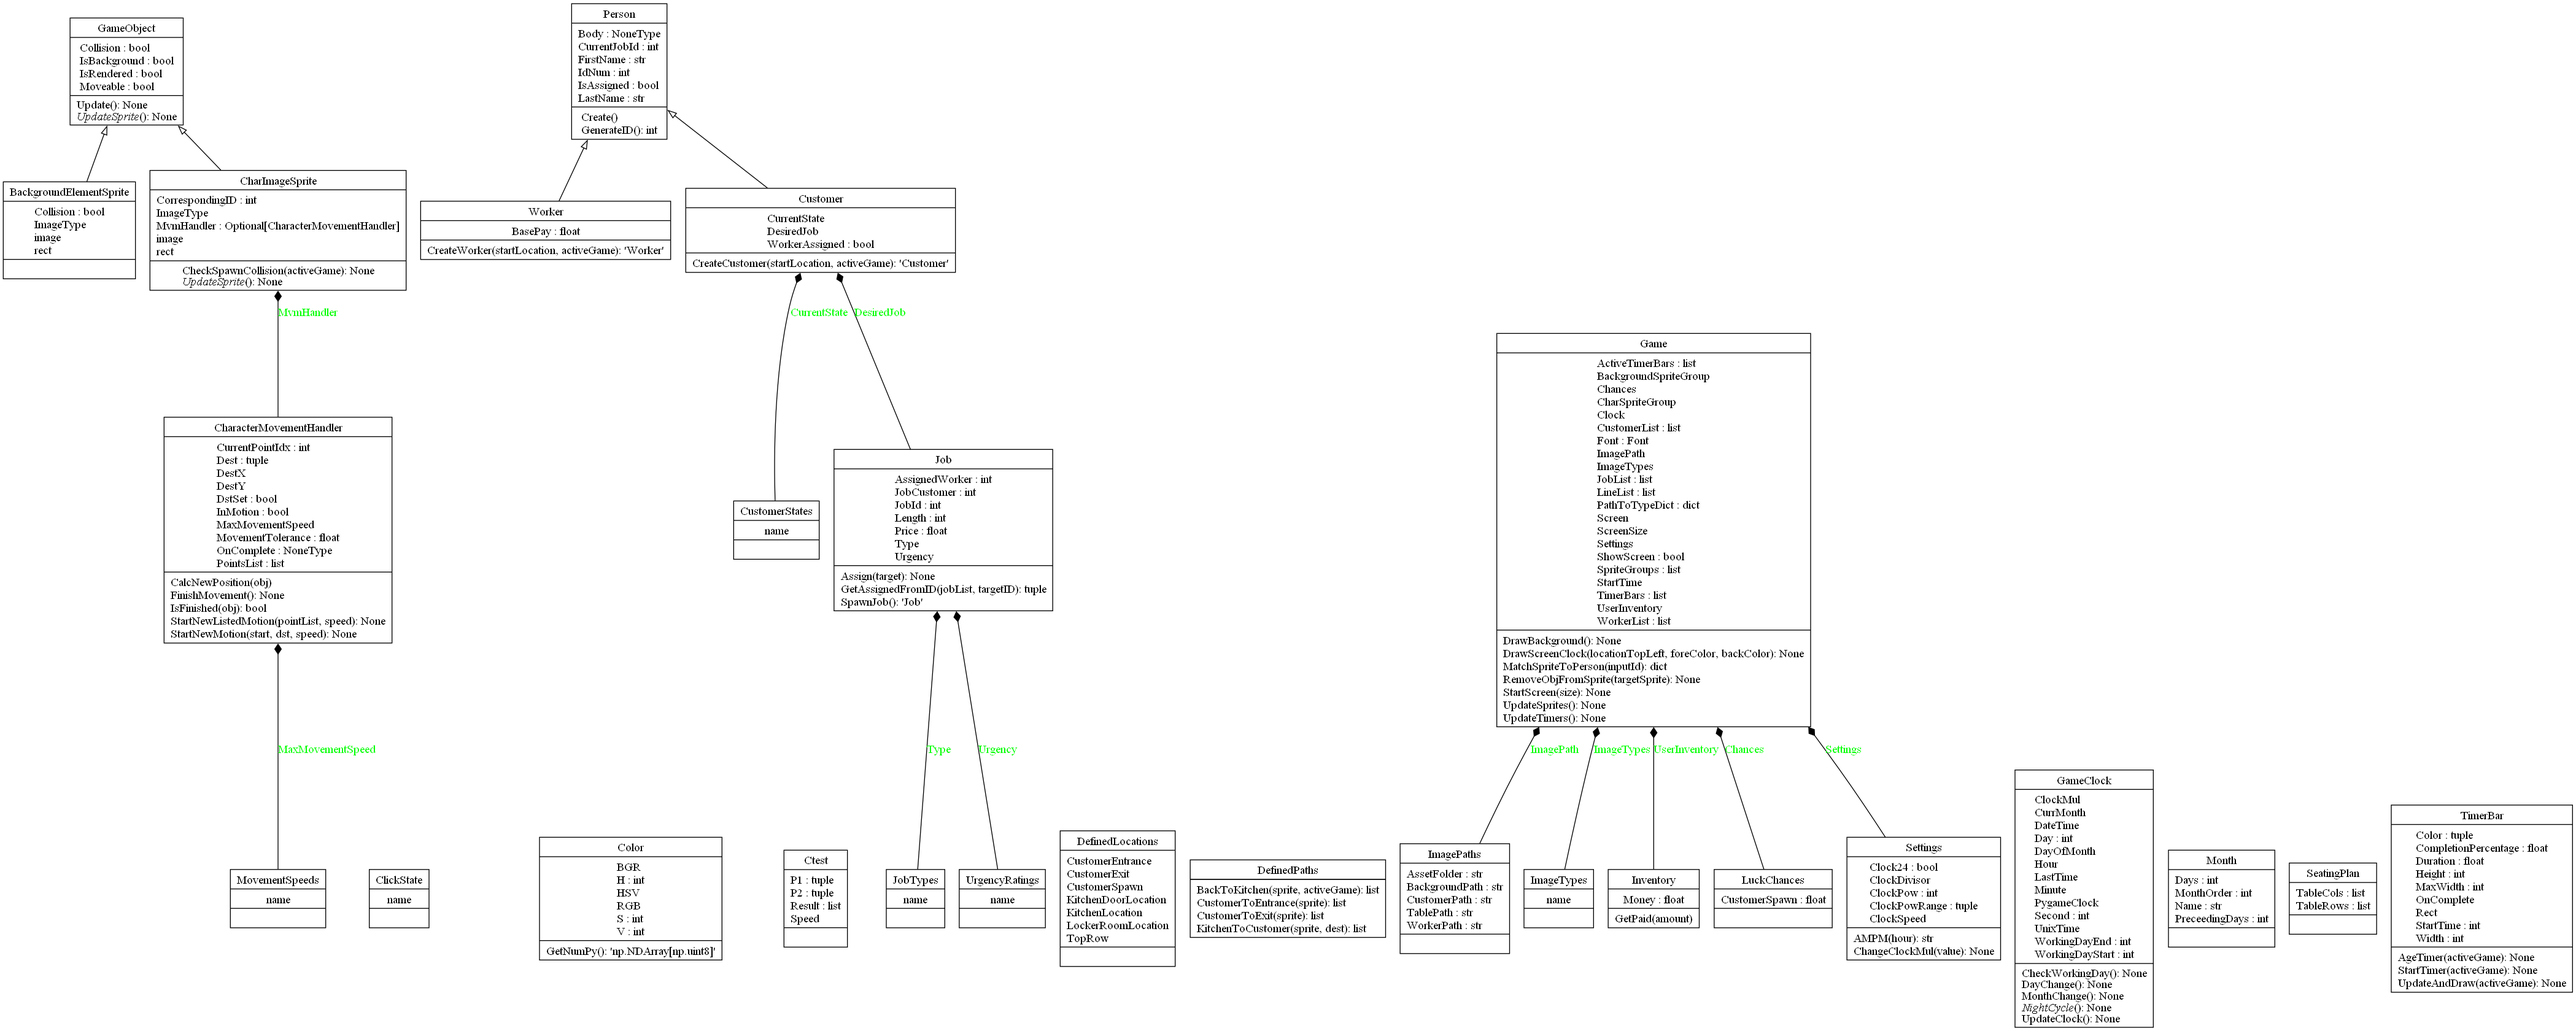
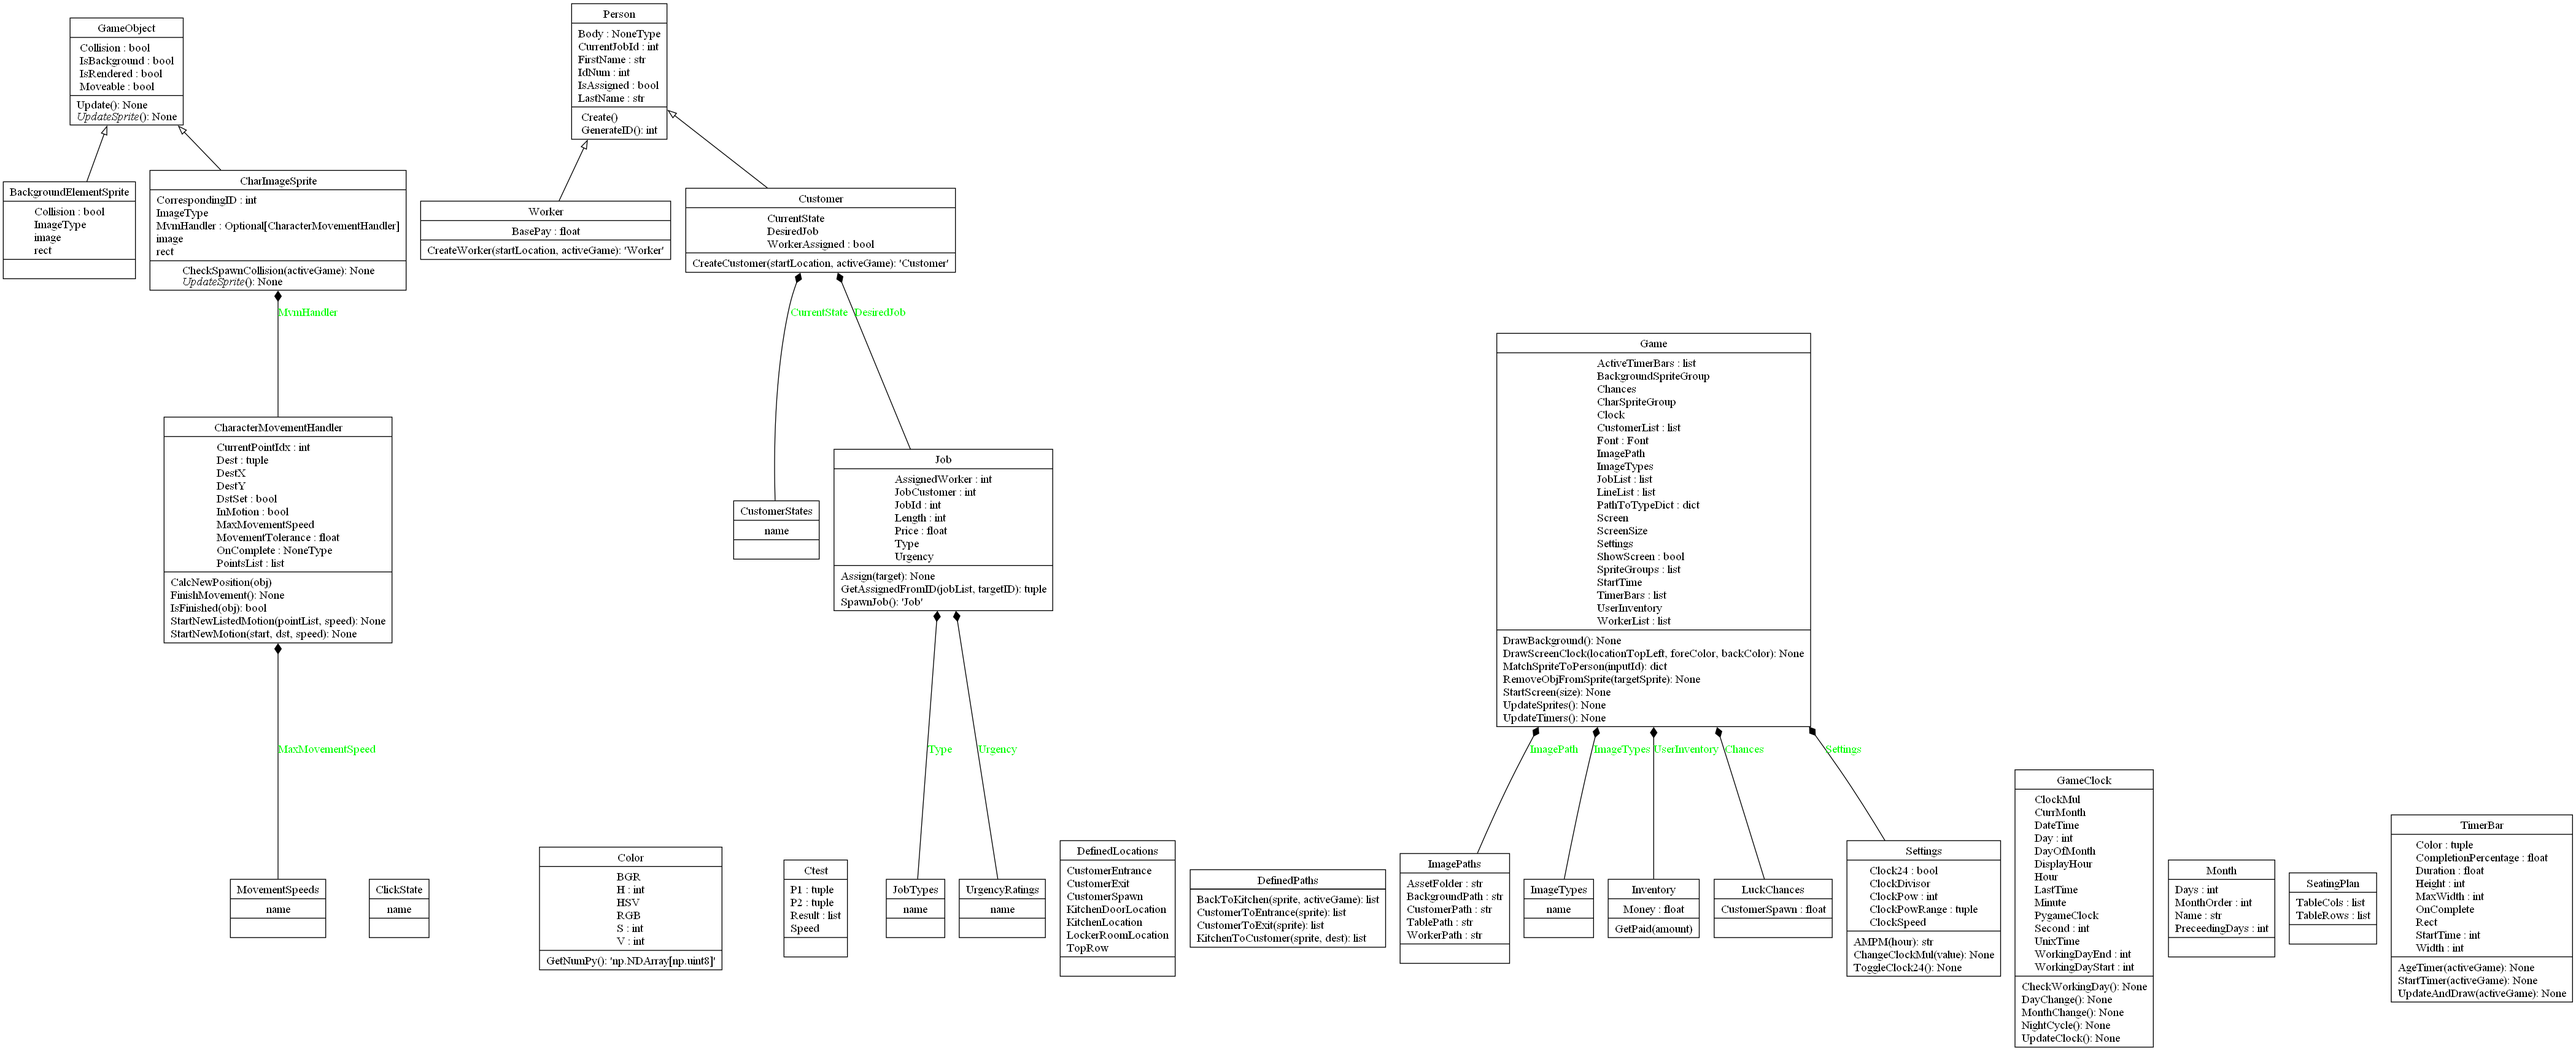
GOT PYTEST WORKING LFG

diff --git a/Handlers/CustomerHandler.py b/Handlers/CustomerHandler.py
@@ -1,6 +1,6 @@
 """Handler for Customer Tasks"""
 import random
-from Classes import Game, TimerBar as TB, DefinedLocations as DL
+from Classes import Game, People, TimerBar as TB, DefinedLocations as DL
 from Handlers import WorkerHandler as WH
 
 
@@ -24,16 +24,13 @@ def FindAvailableWorker(activeGame=Game.MasterGame) -> tuple:
 
 
 # TODO - Stop 2 workers on 1 job
-def AssignWorker(target, activeGame=Game.MasterGame) -> None:
-    customer = [
-        x for x in activeGame.CustomerList if (x.IdNum == target.CorrespondingID)
-    ][0]
+def AssignWorker(target, targetObj, activeGame=Game.MasterGame) -> None:
     worker, workerSprite = FindAvailableWorker()
-    if customer.WorkerAssigned is False and worker is None:
+    if worker is None:
         AllWorkersBusy(target=target)
-    elif worker is not None:
-        customer.WorkerAssigned = True
-        customer.DesiredJob.Assign(worker)
+    else:
+        targetObj.WorkerAssigned = True
+        targetObj.DesiredJob.Assign(worker)
         workerSprite.MvmHandler.StartNewListedMotion(
             pointList=DL.DefinedPaths.KitchenToCustomer(
                 sprite=workerSprite, dest=target
@@ -46,20 +43,39 @@ def AssignWorker(target, activeGame=Game.MasterGame) -> None:
         workerSprite.MvmHandler.OnComplete = lambda: TB.CreatePersonTimerBar(
             sprite=workerSprite,
             completeTask=returnHome,
-            length=customer.DesiredJob.Length,
+            length=targetObj.DesiredJob.Length,
         )
 
 
-def AllWorkersBusy(target) -> None:
+def SitAtTable(target, customer) -> None:
+    target.MvmHandler.StartNewListedMotion(
+        DL.DefinedPaths.CustomerToRandomSeat(sprite=target)
+    )
+    customer.CurrentState = People.CustomerStates.Seated
+    target.MvmHandler.OnComplete = lambda: BeginWait(target=target, customer=customer)
+
+
+def BeginWait(target, customer) -> None:
+    customer.CurrentState = People.CustomerStates.WaitingForService
     taskComplete = lambda: GetUpAndGo(spriteImg=target)
     TB.CreatePersonTimerBar(sprite=target, completeTask=taskComplete, length=10)
 
 
-def GetUpAndGo(spriteImg, activeGame=Game.MasterGame) -> None:
-    spriteImg.MvmHandler.StartNewListedMotion(
-        DL.DefinedPaths.CustomerToExit(sprite=spriteImg)
-    )
+def AllWorkersBusy(target) -> None:
+    customer = Game.MasterGame.MatchSpriteToPerson(inputId=target.CorrespondingID)
+    taskComplete = lambda: GetUpAndGo(spriteImg=target)
+    customer.CurrentState = People.CustomerStates.Waiting
+    TB.CreatePersonTimerBar(sprite=target, completeTask=taskComplete, length=10)
 
-    spriteImg.MvmHandler.OnComplete = lambda: activeGame.RemoveObjFromSprite(spriteImg)
+
+def GetUpAndGo(spriteImg, activeGame=Game.MasterGame) -> None:
     customer = activeGame.MatchSpriteToPerson(spriteImg.CorrespondingID)["customer"]
-    Game.MasterGame.UserInventory.GetPaid(customer.DesiredJob.Price)
+    if not customer.WorkerAssigned:
+        spriteImg.MvmHandler.StartNewListedMotion(
+            DL.DefinedPaths.CustomerToExit(sprite=spriteImg)
+        )
+
+        spriteImg.MvmHandler.OnComplete = lambda: activeGame.RemoveObjFromSprite(
+            spriteImg
+        )
+    # Game.MasterGame.UserInventory.GetPaid(customer.DesiredJob.Price)

diff --git a/Handlers/EventHandler.py b/Handlers/EventHandler.py
@@ -1,24 +1,28 @@
 import pygame
 import sys
-from Classes import People
+from Classes import People, CustomEvents
 from Classes.Game import MasterGame
 from Handlers import ClickHandler
 
 
-def MainEventHandler(activateGame=MasterGame) -> None:
+def MainEventHandler(activeGame=MasterGame) -> None:
     for event in pygame.event.get():
         if event.type == pygame.QUIT:
             pygame.quit()
             sys.exit()
+        if event.type == pygame.USEREVENT and event == CustomEvents.NightCycle:
+            print("DAY CHANGE EVENT HERE")
         if event.type == pygame.MOUSEBUTTONDOWN and event.button == 1:
             ClickHandler.MouseHandler()
         if event.type == pygame.KEYDOWN and event.key == pygame.K_t:
-            activateGame.Settings.ChangeClockMul(value=-1)
+            activeGame.Settings.ChangeClockMul(value=-1)
         if event.type == pygame.KEYDOWN and event.key == pygame.K_y:
-            activateGame.Settings.ChangeClockMul(value=1)
+            activeGame.Settings.ChangeClockMul(value=1)
         if event.type == pygame.KEYDOWN and event.key == pygame.K_w:
             People.Worker.CreateWorker()
         if event.type == pygame.KEYDOWN and event.key == pygame.K_c:
             People.Customer.CreateCustomer()
+        if event.type == pygame.KEYDOWN and event.key == pygame.K_2:
+            activeGame.Settings.ToggleClock24()
         if event.type == pygame.KEYDOWN and event.key == pygame.K_d:
-            activateGame.ShowScreen = not activateGame.MasterGame.ShowScreen
+            activeGame.ShowScreen = not activeGame.MasterGame.ShowScreen

diff --git a/Testing/People_test.py b/Testing/People_test.py
@@ -17,22 +17,20 @@ def test_PeopleIdTest() -> None:
 
 
 def test_PeopleNames() -> None:
-    Game.MasterGame = Game.Game(activateScreen=True)
+    currentGame = Game.Game(activateScreen=True)
+    currentGame.CustomerList = []
+    currentGame.WorkerList = []
     for i in range(10):
-        worker, workerSprite = People.Worker.CreateWorker()
-        customer, customerSprite = People.Customer.CreateCustomer()
+        worker, workerSprite = People.Worker.CreateWorker(activeGame=currentGame)
+        customer, customerSprite = People.Customer.CreateCustomer(
+            activeGame=currentGame
+        )
         if Utils.CheckInternet():
             assert worker.FirstName != customer.FirstName
             assert worker.LastName != customer.LastName
-        Game.MasterGame.RemoveObjFromSprite(targetSprite=workerSprite)
-        Game.MasterGame.RemoveObjFromSprite(targetSprite=customerSprite)
-    assert Game.MasterGame.WorkerList == []
-    assert Game.MasterGame.CustomerList == []
+        currentGame.RemoveObjFromSprite(targetSprite=workerSprite)
+        currentGame.RemoveObjFromSprite(targetSprite=customerSprite)
+    assert currentGame.WorkerList == []
+    assert currentGame.CustomerList == []
 
 
-def RunAllPeopleTests() -> bool:
-    Game.MasterGame = None
-    test_PeopleNames()
-    Game.MasterGame = None
-    test_PeopleIdTest()
-    return True

diff --git a/Classes/GameClock.py b/Classes/GameClock.py
@@ -3,6 +3,7 @@ from dataclasses import dataclass
 import math
 from Utilities import Utils
 from Classes.Settings import GameSettings
+from Classes import CustomEvents
 
 
 @dataclass
@@ -29,6 +30,7 @@ Months = [
 ]
 
 
+# TODO- Weird Flickering between 1:00 and 8:00 in 24hr clock
 class GameClock:
     Day: int = 1
     CurrMonth: Month = Months[0]
@@ -78,8 +80,15 @@ class GameClock:
         return math.floor(self.Minute / 60)
 
     @property
+    def DisplayHour(self) -> int:
+        returnVal = self.Hour % GameSettings.ClockDivisor
+        if (not GameSettings.Clock24) and (self.Hour > 12 and returnVal < 12):
+            returnVal += 1
+        return returnVal
+
+    @property
     def DateTime(self) -> str:
-        return f"{self.CurrMonth.Name} {self.DayOfMonth} {(self.Hour % GameSettings.ClockDivisor):02d}:{(self.Minute % 60):02d}{GameSettings.AMPM(self.Hour)}"
+        return f"{self.CurrMonth.Name} {self.DayOfMonth} {(self.DisplayHour):02d}:{(self.Minute % 60):02d}{GameSettings.AMPM(self.Hour)}"
 
     @property
     def UnixTime(self) -> int:
@@ -95,4 +104,4 @@ class GameClock:
             self.Second = self.WorkingDayStart * 60 * 60
 
     def NightCycle(self) -> None:
-        pass
+        pygame.event.post(CustomEvents.NightCycle)

diff --git a/Handlers/ClickHandler.py b/Handlers/ClickHandler.py
@@ -1,7 +1,8 @@
 """Handler for User Clicks"""
 from enum import Enum
+from pickletools import TAKEN_FROM_ARGUMENT4
 import pygame
-from Classes import Game, Sprite
+from Classes import Game, Sprite, People
 from Handlers import CustomerHandler
 
 # pylint: disable=global-statement
@@ -32,15 +33,19 @@ def MouseHandler() -> None:
 
 def CustomerClickRoutine(target) -> None:
     global GlobalClickState
-    if GlobalClickState is ClickState.Neutral:
-        CustomerHandler.AssignWorker(target=target)
+    customerObj = Game.MasterGame.MatchSpriteToPerson(inputId=target.CorrespondingID)[
+        "customer"
+    ]
+    if (
+        GlobalClickState is ClickState.Neutral
+        and not customerObj.WorkerAssigned
+        and customerObj.CurrentState == People.CustomerStates.Queuing
+    ):
+        CustomerHandler.SitAtTable(target=target, customer=customerObj)
 
     GlobalClickState = ClickState.ClickedCustomer
     # this is where you make all other sprites glow
 
 
 def WorkerClickRoutine(target) -> None:
-    global GlobalClickState
-    if GlobalClickState is ClickState.ClickedCustomer:
-        target.IsAssigned = target.IsAssigned
-    GlobalClickState = ClickState.ClickedWorker
+    pass

diff --git a/Classes/Game.py b/Classes/Game.py
@@ -45,8 +45,13 @@ class Game:
 
         self.Font = pygame.font.Font(None, 36)
 
-    def DrawScreenClock(self, locationTopLeft, foreColor, backColor) -> None:
-        text = self.Font.render(str(self.Clock.DateTime), True, foreColor, backColor)
+    def DrawScreenClock(
+        self, locationTopLeft, foreColor, backColor, withMoney=False
+    ) -> None:
+        MoneyText = f" ${self.UserInventory.Money:0.2f}" if withMoney else ""
+        text = self.Font.render(
+            str(self.Clock.DateTime + MoneyText), True, foreColor, backColor
+        )
         textrect = text.get_rect()
         textrect.x = locationTopLeft[0]
         textrect.y = locationTopLeft[1]
@@ -57,13 +62,13 @@ class Game:
         self.Screen.blit(source=bg, dest=(0, 0))
 
     def RemoveObjFromSprite(self, targetSprite) -> None:
-        targetSprite.kill()
         self.CustomerList = [
             x for x in self.CustomerList if x.IdNum != targetSprite.CorrespondingID
         ]
         self.WorkerList = [
             x for x in self.WorkerList if x.IdNum != targetSprite.CorrespondingID
         ]
+        targetSprite.kill()
 
     def UpdateSprites(self) -> None:
         for group in self.SpriteGroups:

diff --git a/Main.py b/Main.py
@@ -8,7 +8,7 @@ import sys
 # pylint: disable=wrong-import-position
 os.environ["PYGAME_HIDE_SUPPORT_PROMPT"] = "True"
 import pygame
-from Classes import Game, DefinedLocations, ColorTools
+from Classes import Game, ColorTools
 from Handlers import EventHandler
 from Generators import CharSpawner, BackgroundPopulator
 
@@ -19,7 +19,6 @@ DEBUGFLAG = True
 if DEBUGFLAG:
     CharSpawner.WorkerSpawner(force=True)
     CharSpawner.WorkerSpawner(force=True)
-    CharSpawner.CustomerSpawner(force=True)
     BackgroundPopulator.AddTables()
 
 while True:
@@ -33,13 +32,11 @@ while True:
 
     CharSpawner.SpawnHandler()
 
-    if DEBUGFLAG:
-        DefinedLocations.DebugLocations()
-
     Game.MasterGame.DrawScreenClock(
         locationTopLeft=(0, 0),
         foreColor=ColorTools.white.RGB,
         backColor=ColorTools.blue.RGB,
+        withMoney=True,
     )
 
     # Update the display

diff --git a/Testing/Game_test.py b/Testing/Game_test.py
@@ -9,9 +9,11 @@ def test_ScreenSize() -> None:
 
 def test_Matching() -> None:
     currentGame = Game.Game()
-    for i in range(10):
-        worker, workerSprite = People.Worker.CreateWorker()
-        customer, customerSprite = People.Customer.CreateCustomer()
+    for i in range(200):
+        worker, workerSprite = People.Worker.CreateWorker(activeGame=currentGame)
+        customer, customerSprite = People.Customer.CreateCustomer(
+            activeGame=currentGame
+        )
         assert {
             "worker": worker,
             "sprite": workerSprite,
@@ -20,9 +22,3 @@ def test_Matching() -> None:
             "customer": customer,
             "sprite": customerSprite,
         } == currentGame.MatchSpriteToPerson(inputId=customerSprite.CorrespondingID)
-
-
-def RunAllGameTests() -> bool:
-    test_ScreenSize()
-    test_Matching()
-    return True

diff --git a/Classes/DefinedLocations.py b/Classes/DefinedLocations.py
@@ -1,5 +1,5 @@
 """Class for DefinedLocations"""
-
+import random
 import pygame
 from Classes.Game import MasterGame
 from Utilities import Utils
@@ -38,7 +38,24 @@ class DefinedLocations:
 LocationDefs = DefinedLocations()
 
 
+def GetRandomSeatPosition() -> tuple:
+    yPos = random.choice(SeatingPlan.TableCols)
+    xPos = random.choice(SeatingPlan.TableRows)
+    return (xPos, yPos)
+
+
 class DefinedPaths:
+    @staticmethod
+    def CustomerToRandomSeat(sprite) -> list:
+        randomSeatPosition = GetRandomSeatPosition()
+        path = [
+            (sprite.rect.centerx, randomSeatPosition[1] - 50),
+            (randomSeatPosition[0], randomSeatPosition[1] - 50),
+            randomSeatPosition,
+        ]
+        print(path)
+        return path
+
     @staticmethod
     def KitchenToCustomer(sprite, dest) -> list:
         path = [

diff --git a/Testing/Utils_test.py b/Testing/Utils_test.py
@@ -184,15 +184,3 @@ def test_Sign() -> None:
         except AssertionError:
             print(test, testVal)
             assert False
-
-
-def RunAllUtilsTests() -> bool:
-    test_checkDecimalPercent()
-    test_InRandomVarianceTest()
-    test_PositionRandomVarianceTest()
-    test_InTolerance()
-    test_InPercentTolerance()
-    test_ProRateValue()
-    test_Bind()
-    test_Sign()
-    return True

diff --git a/Classes/Inventory.py b/Classes/Inventory.py
@@ -1,10 +1,13 @@
 from dataclasses import dataclass
+from Classes import Prices
 
 
 @dataclass
 class Inventory:
-    Money: float = 0.0
+    Money: float = 2000.0
 
-    def GetPaid(self, amount):
+    def GetPaid(self, amount) -> None:
         self.Money += amount
-        print(self.Money)
+
+    def PayRent(self, amount=Prices.CurrentRent) -> None:
+        self.Money -= amount

diff --git a/Utilities/ParseDot.py b/Utilities/ParseDot.py
@@ -12,6 +12,7 @@ with open("packages.dot", "r", encoding="utf8") as fp:
                 "." in importer
                 and "." in imported
                 and "Utils" not in imported
+                and "Game" not in imported
                 or ("Main" in importer and "." in imported)
             ):
                 docString.append(line)
